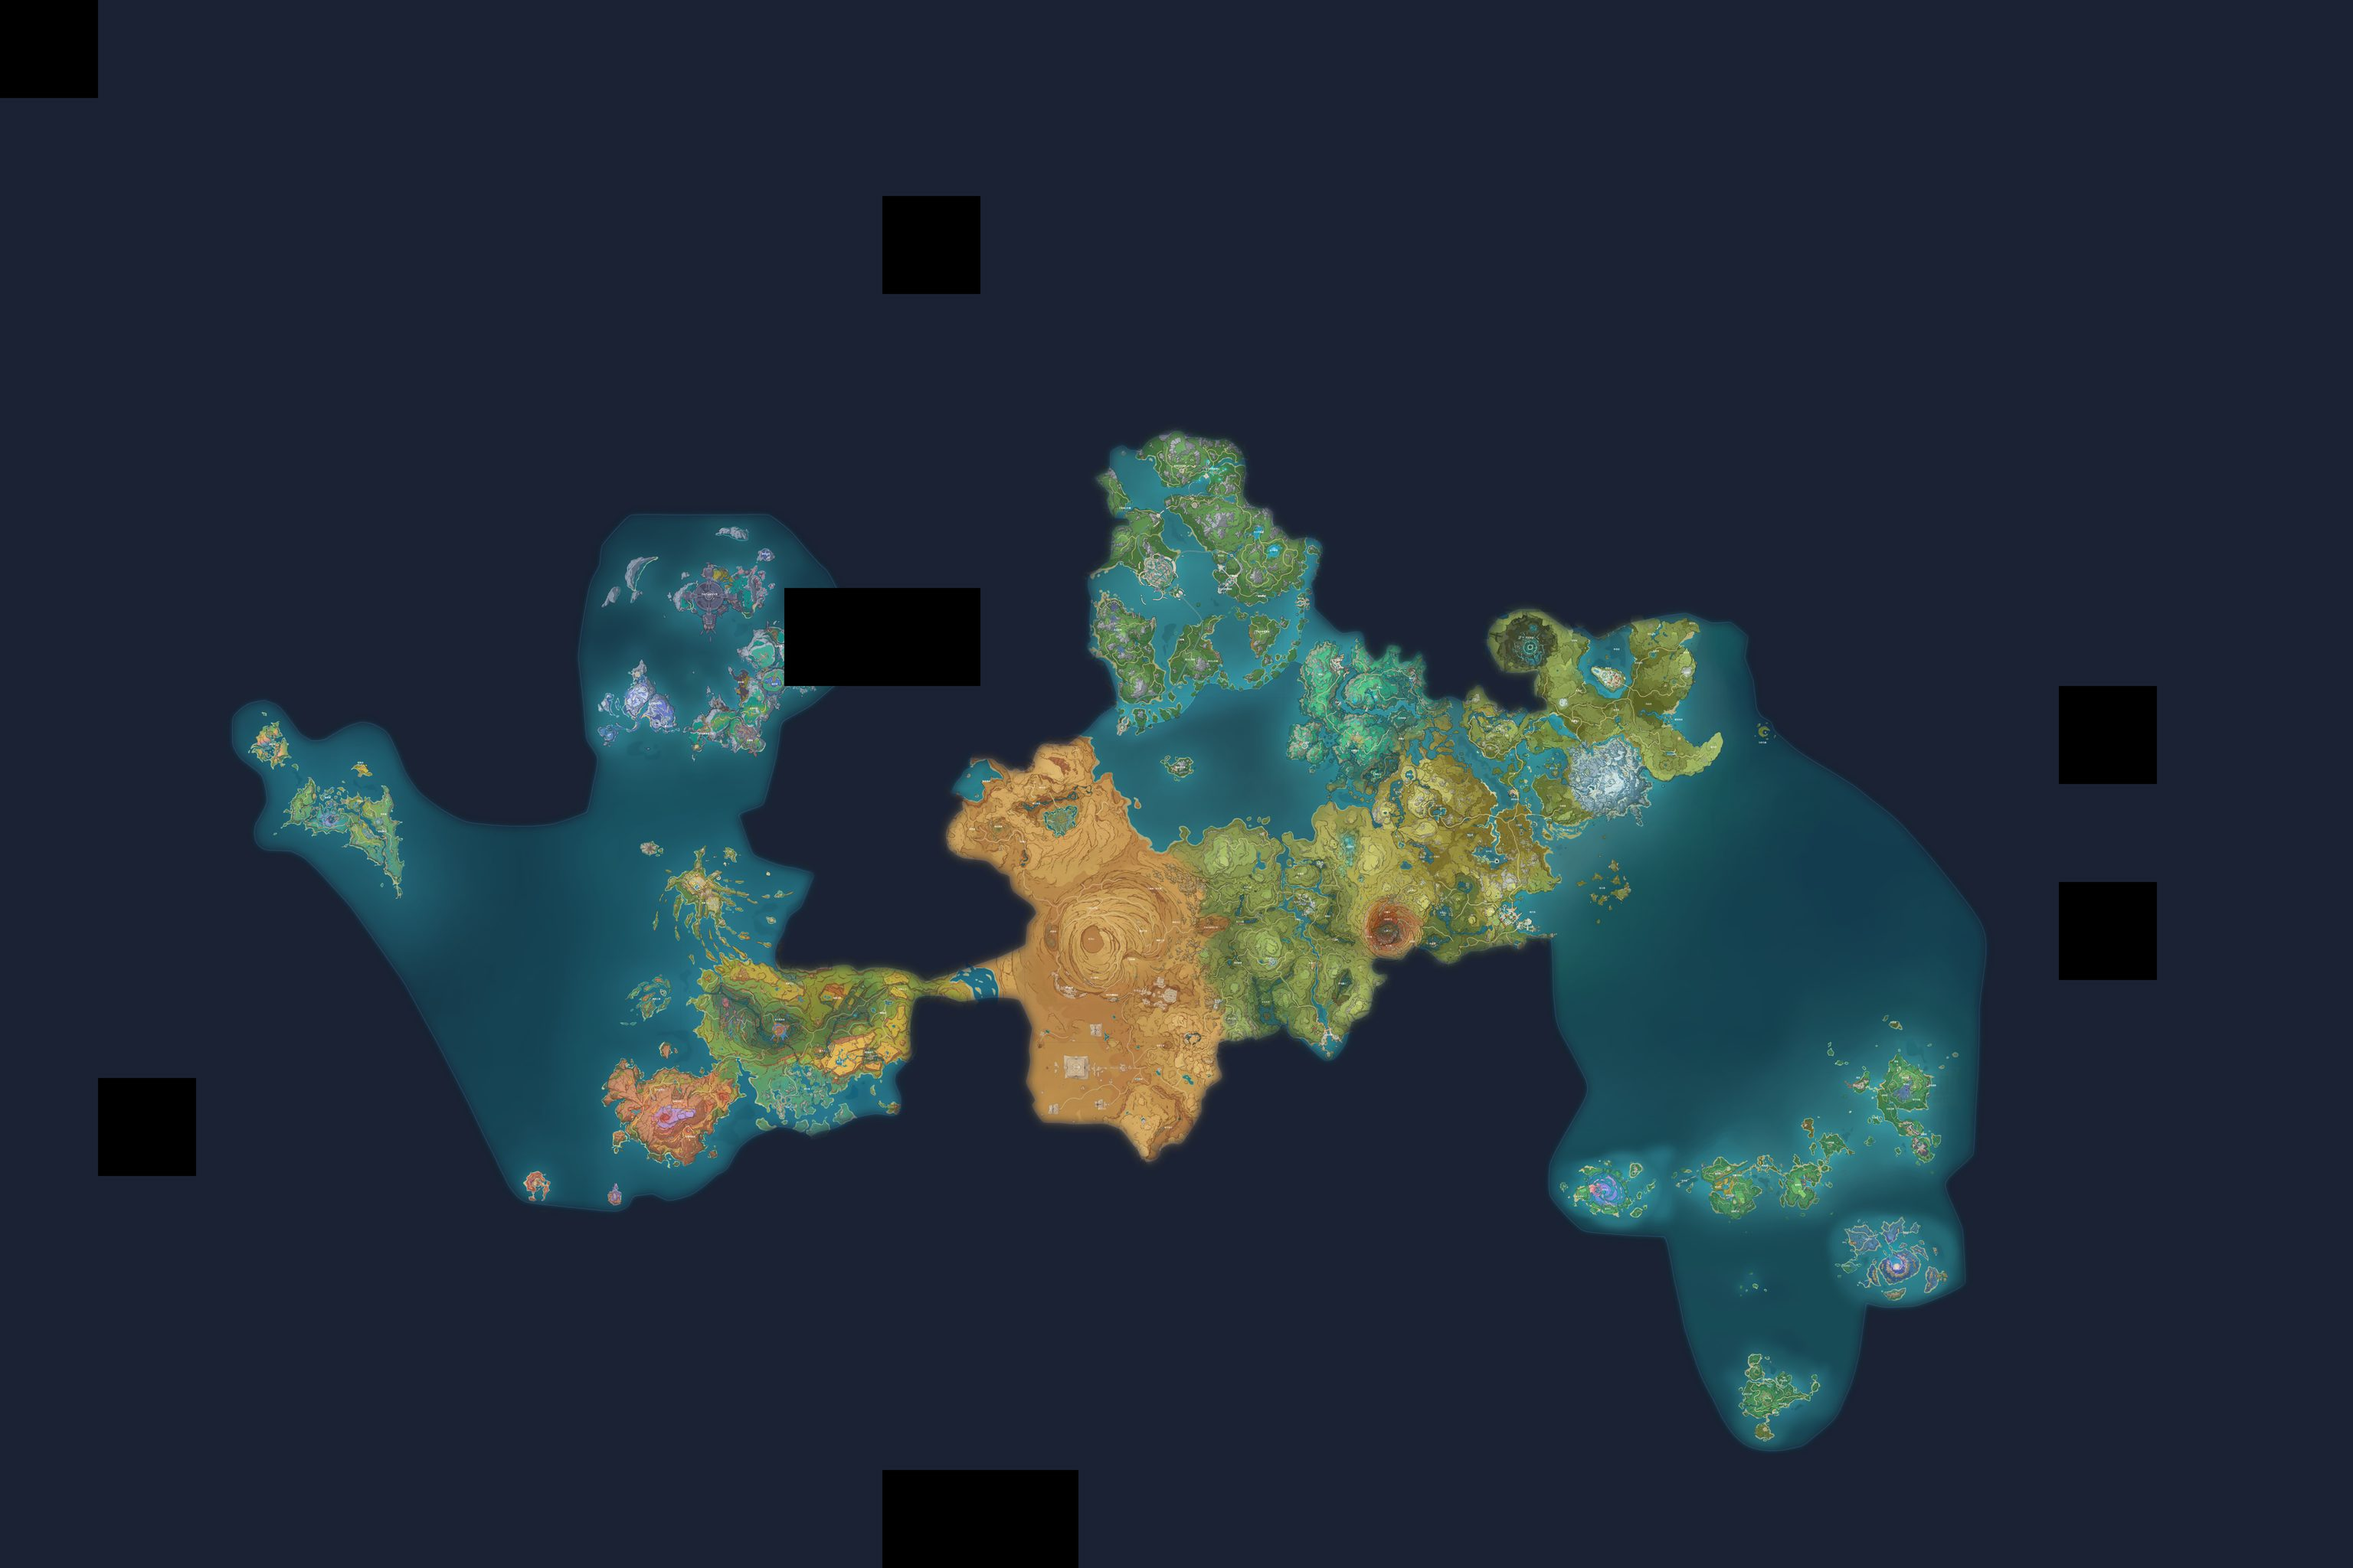
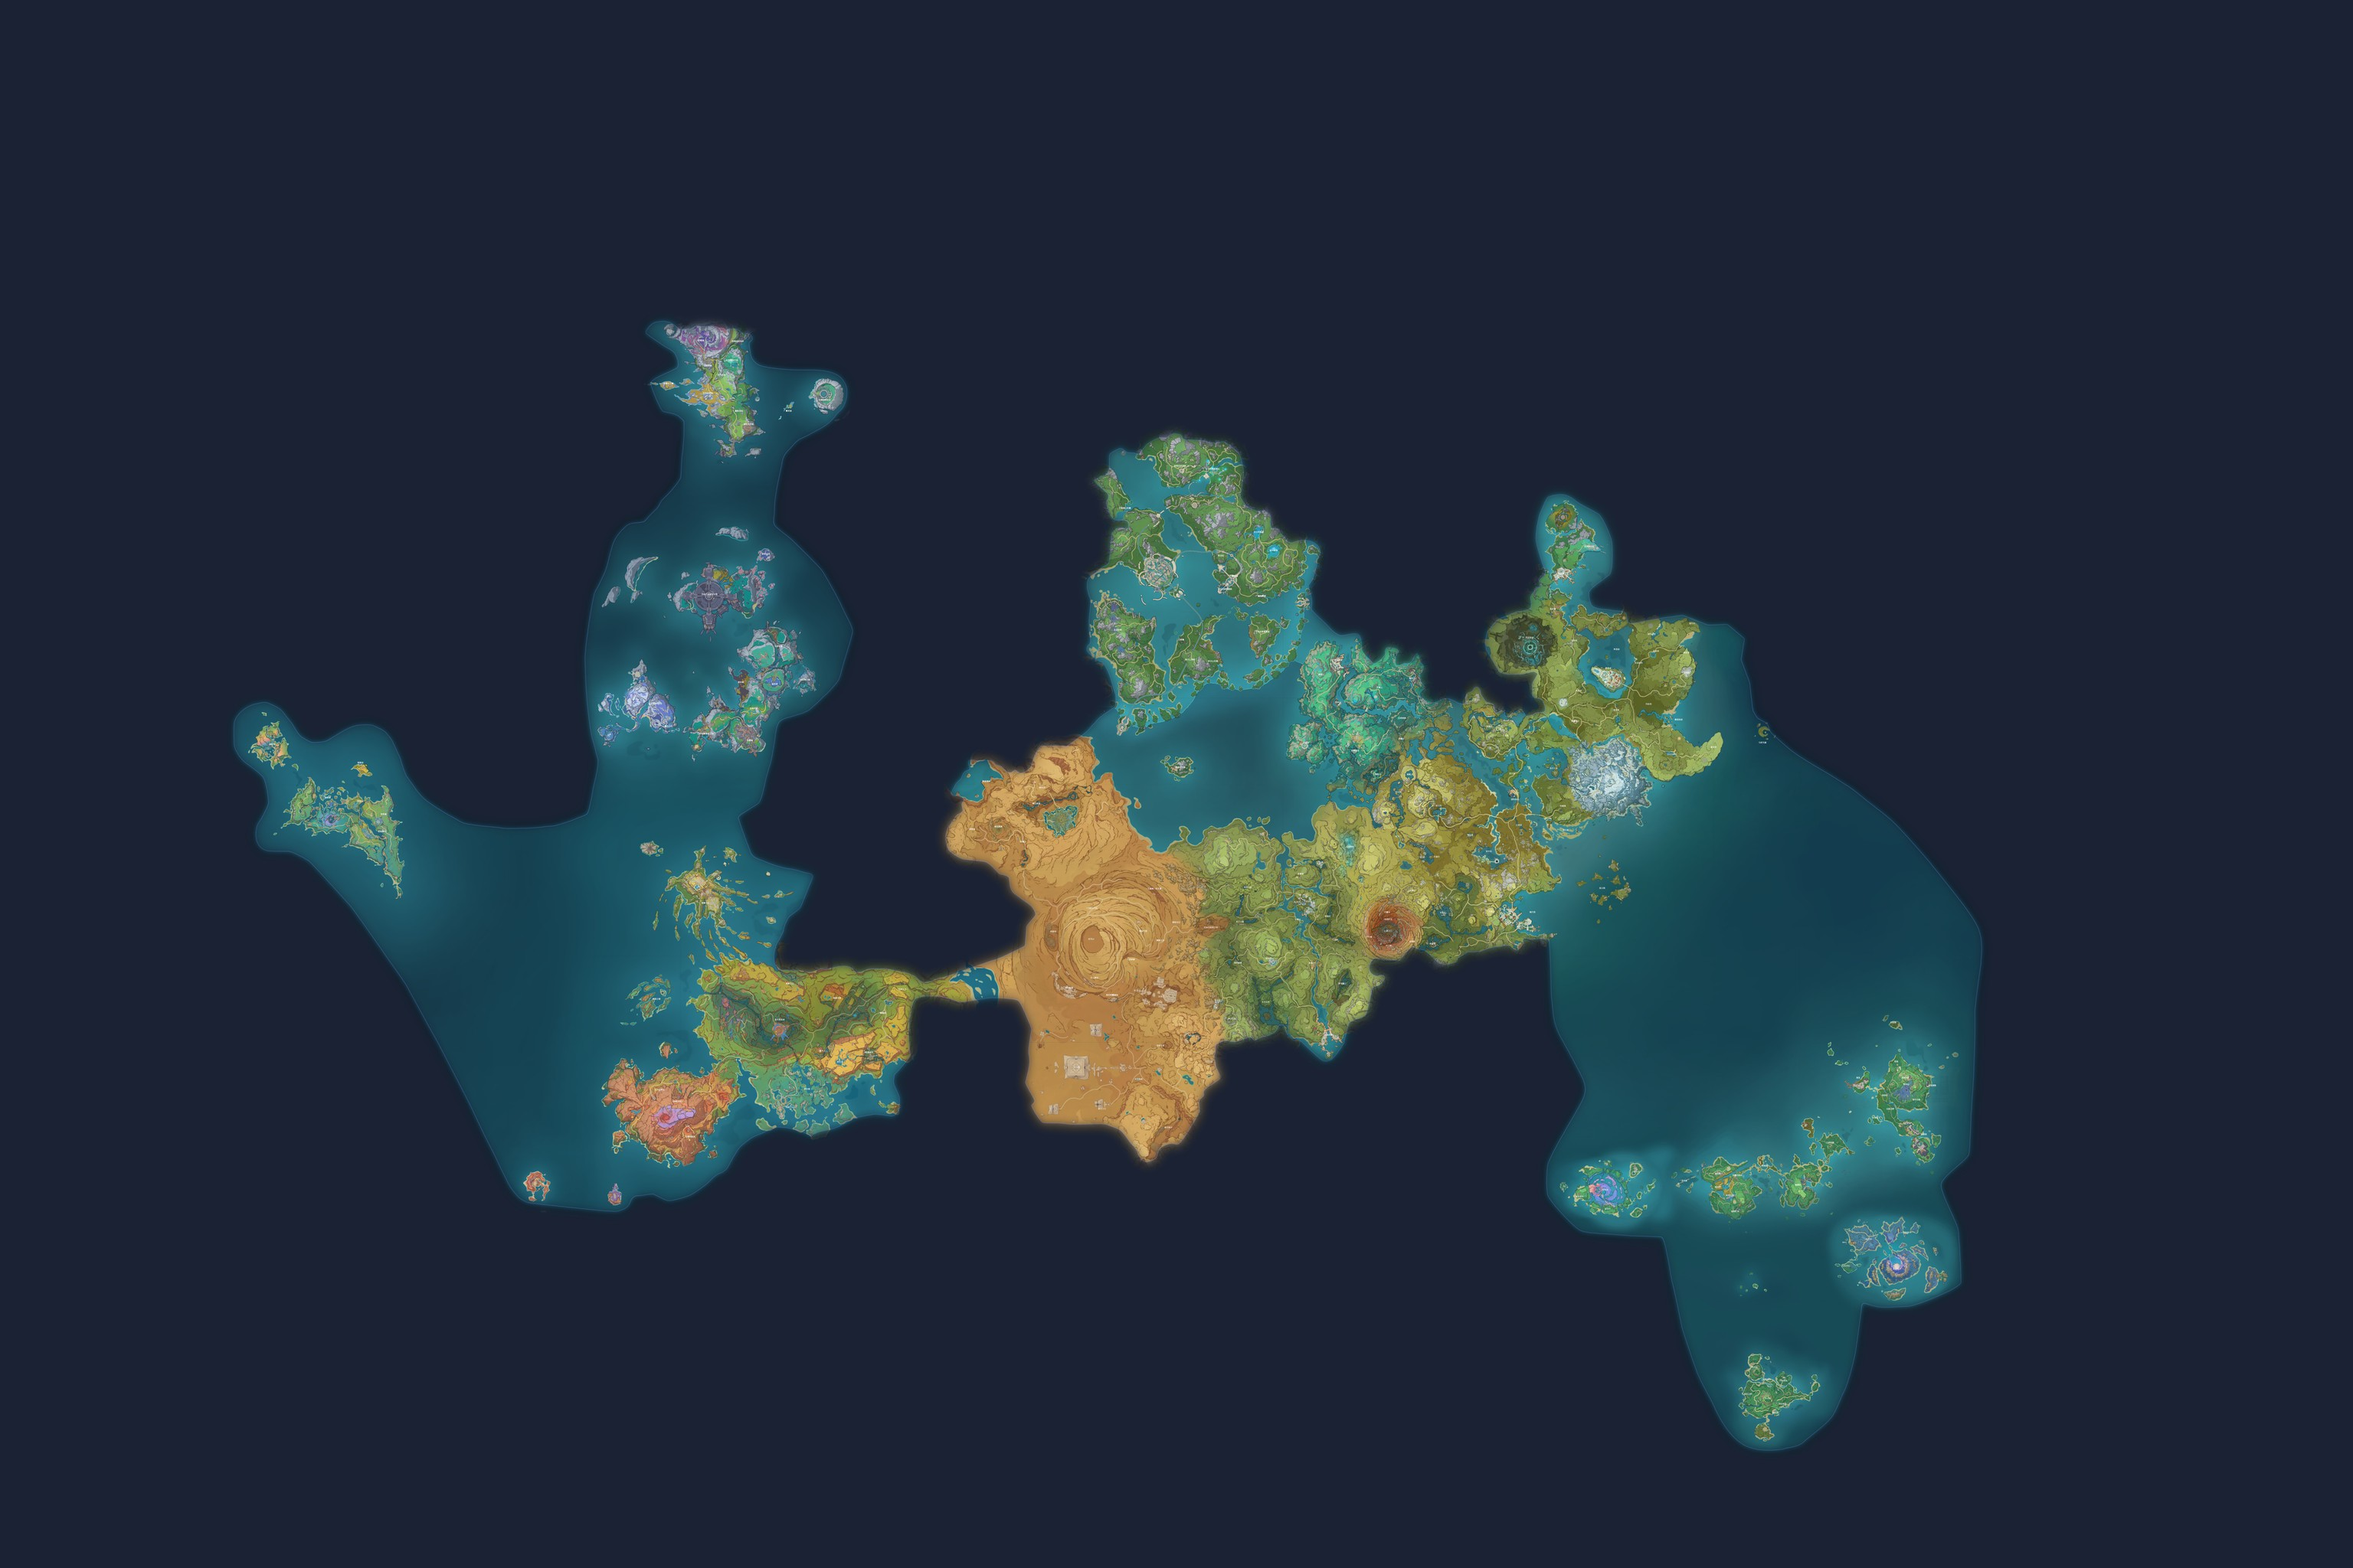
fix(map): refresh reference map from wiki 6.7

diff --git a/plugins/genshin-map-overlay/main.js b/plugins/genshin-map-overlay/main.js
@@ -110,7 +110,7 @@
   }
 
 
-  var PLUGIN_VER = '0.9.2';   // 与 plugin.json 同步；日志里可确认设备版本
+  var PLUGIN_VER = '0.9.3';   // 与 plugin.json 同步；日志里可确认设备版本
   var REPO = 'https://raw.githubusercontent.com/preauthn1/migu-play-plugins/main/plugins/genshin-map-overlay/';
 
   // ---- 标定常量（实测确定，改前先读 README 的"标定"一节）------------------

diff --git a/plugins/genshin-map-overlay/README.md b/plugins/genshin-map-overlay/README.md
@@ -3,7 +3,7 @@
 在**游戏内大地图**画面上叠加 bilibili wiki 的全地标点位：靠图像特征匹配自动对齐，
 不需要手动校准。`F8` 切换显示，`F9` 强制重新定位。
 
-> 状态：**实验性（0.9.2）**。定位算法与坐标标定已离线验证（误差 <1px），
+> 状态：**实验性（0.9.3）**。定位算法与坐标标定已离线验证（误差 <1px），
 > 但依赖宿主提供 opencv wasm 与画面读取权限，见下文"前置条件"。
 
 ## 前置条件
@@ -20,7 +20,7 @@
 
 ## 工作原理
 
-1. 随插件发布的预拼底图（3072x2048，sha256 锁定）在 worker 里算一次
+1. 随插件发布的 Wiki `map-6.7/1` 地面层预拼底图（3072x2048，sha256 锁定）在 worker 里算一次
    12000 个 ORB 特征（`vendor/fit_worker.js`，主线程零阻塞）；
 2. 抓取游戏画面一帧，**缩到与底图相同的尺度**（用上次定位的缩放当先验；
    首次定位扫多档金字塔）转灰度，算 ORB 特征后只与上次位置附近的底图
@@ -44,6 +44,8 @@
 - **Leaflet 投影**：`CRS.Simple` + `L.Transformation(0.0078125,0,0.0078125,0)`，
   `pixel = 0.0078125 * coord * 2^zoom`。
 - 参照拼图范围：z=5，Leaflet 瓦片 x∈[-16,7]、y∈[-8,7]。
+- 底图版本：`map-6.7/1/tiles-G`。Wiki 更新地面瓦片版本后必须重新拼图；即使
+  瓦片坐标范围不变，旧图也无法匹配新区域（实测旧图仅 4–5 内点，新图 35 内点）。
 - **帧→屏幕几何**：视频按 `object-fit` 摆进元素盒，**内容矩形 ≠
   getBoundingClientRect**。必须用 main.js 的 `contentBox()` 换算；拿元素盒
   直接换算时，信箱黑边会变成整体尺度+平移偏移（真机实测 0.796 倍 +139px，
